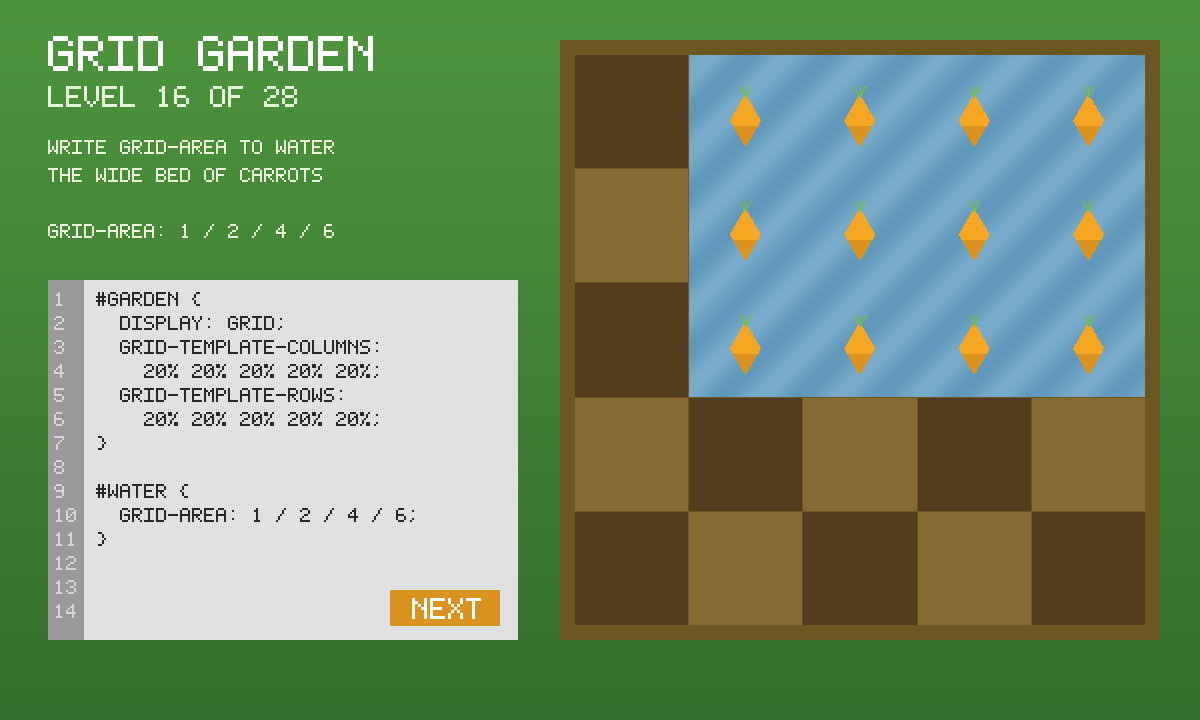
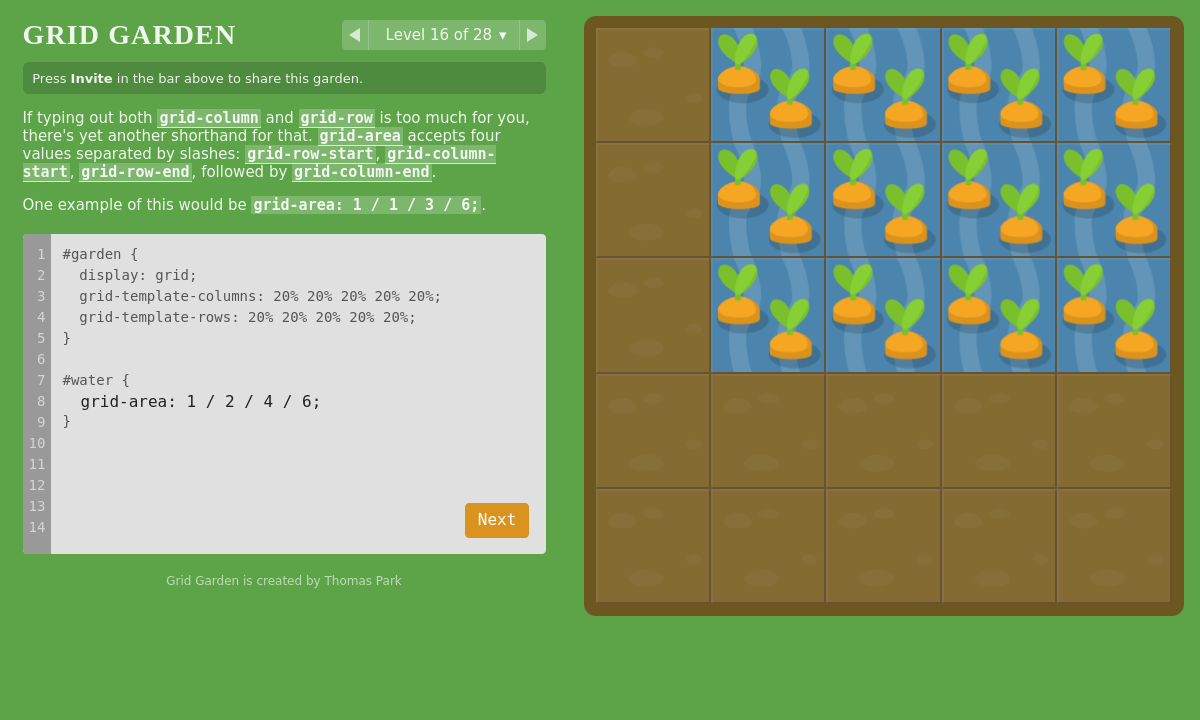
grid-garden: tile carrot sheets to one cell
Spanned beds were stretching the whole sprite. Sheets now repeat at
cell size so level 16 is a field of carrots, like cssgridgarden.com.
Cover is a real window at that level. Critic picked COMP. Re-signed
gifos.app, 412 KB.

diff --git a/apps/grid-garden/style.css b/apps/grid-garden/style.css
@@ -262,6 +262,7 @@ button:not(.disabled):hover { background-color: #C97B00; }
   overflow: hidden;
   border: 12px solid #6D5720;
   border-radius: 12px;
+  container-type: size;
 }
 #garden, #plants, #soil, #overlay {
   display: grid;
@@ -277,7 +278,8 @@ button:not(.disabled):hover { background-color: #C97B00; }
   width: 100%; height: 100%;
   background-color: #836B32;
   background-image: url('vendor/images/dirt.svg');
-  background-size: 100% 100%;
+  background-size: var(--cell, 20cqw) var(--cell, 20cqw);
+  background-repeat: repeat;
 }
 #overlay .plot {
   z-index: 50;
@@ -293,7 +295,9 @@ button:not(.disabled):hover { background-color: #C97B00; }
 .plant .bg, .treatment .bg {
   width: 100%; height: 100%;
   background-position: left top;
-  background-size: 100% 100%;
+  /* One board cell, repeating — a spanned bed is a FIELD of carrots, not one stretched sheet. */
+  background-size: var(--cell, 20cqw) var(--cell, 20cqw);
+  background-repeat: repeat;
 }
 .plant.carrot .bg { background-image: url('vendor/images/carrots.svg'); }
 .plant.weed .bg { background-image: url('vendor/images/weeds.svg'); }
@@ -360,7 +364,7 @@ button:not(.disabled):hover { background-color: #C97B00; }
 
 @keyframes scroll {
   0% { background-position: 0 0; }
-  100% { background-position: 0 100%; }
+  100% { background-position: 0 var(--cell, 20cqw); }
 }
 @keyframes tada {
   from { transform: scale3d(1, 1, 1); }

diff --git a/apps/grid-garden/GAUNTLET-CRITIC.md b/apps/grid-garden/GAUNTLET-CRITIC.md
@@ -1,0 +1,28 @@
+# Grid Garden — gauntlet critic
+
+Blind A/B against https://cssgridgarden.com (Thomas Park). Played the original in Chromium and this port from `apps/grid-garden/` (local server, gifos.db mocked). One browser. Desktop 1280 and phone 390 / 360.
+
+**winner:** COMP
+
+**single biggest remaining gap:** The garden sprites do not tile. Original CSS sizes the carrot / weed / water / dirt sheets to one cell (`background-size: calc(10vw - 4px)` on `.plot`, `.plant .bg`, `.treatment .bg`) so a spanned bed is a *field* of carrots. This port sets `background-size: 100% 100%`, so the whole 2000×2000 sheet stretches across the treatment. Level 1 (one cell) looks like Grid Garden. Level 16 (`grid-area: 1 / 2 / 4 / 6`) is two giant carrots over a stretched puddle instead of twelve pairs in a watered bed. Level 28 is the same failure at harvest scale. The puzzle still greets Next — the geometry check is fine — but the picture that *is* the game is wrong from the first span, which is most of the 28 levels.
+
+**would a stranger who knows the original use this copy:** "I would use the GifOS one on a plane, or to sit a friend on the same plot from one link — the original is a tab and a localStorage key, this is the file. I will not, while watering a row turns into two huge carrots. That is not Grid Garden. Fix the bed so it looks like cssgridgarden.com and then the offline + invite reason is enough; until then I stay on the original."
+
+**HARD WALL:** none. No CDN / webfont / remote fetch at load (zero requests off the app origin). No `localStorage`. `COPYING.txt` (MIT) and `COPYING-images.txt` (CC BY 3.0) ride in the tree and the GIF. Catalog claims that were checked are true: 28 English levels, unofficial, Thomas Park, offline, Invite shares level+CSS, harvest copy is still Froggy's cake. English-only is a product gap versus the original's ~40 languages, not a lie; the listing just does not say it.
+
+## Face (always judged)
+
+- **Icon (64px):** A 5×5 dirt checkerboard, one cell filling with water. The loop demonstrates the mechanic, it does not wiggle. At real Home Screen size the carrot is a speck — it reads "tiny garden," not "Grid Garden." Original has no animated icon, so this is a small structural win that does not yet earn the slot.
+- **Store art:** `screenshot.png` / `cover.jpg` is a pixel mockup of level 16 (diamond carrots, 5×5 checker, fake editor). It matches neither the original's real OG screenshot (Thomas Park's carrots, Autour One, the actual editor) nor this port's running window (which, at 16, is the stretched-carrot bug). Beside the catalog's best covers (2048, Flexbox Froggy) it looks like a different, cheaper game. Crop is full-bleed, no shell toolbar. Hero on `/store.html#app=grid-garden` and the phone listing both show this fake. A shopper who knows cssgridgarden.com would not recognise the product.
+- **Listing copy (read on the rendered store page):** Tagline *Write CSS grid, grow carrots — offline, and one invite shares the garden.* Description leads with file-is-the-save and Invite, then the 28 levels, then unofficial. That is the right shape, and every claim is true of the build. It is better store copy than the original's one-liner ("A game for learning CSS grid layout"). Not enough to win the A/B while the cover and the garden disagree with it.
+
+## Product notes (not the gap, but they sit on the table)
+
+- 28 levels, English instructions, property underlines, Next-when-match, shake on a wrong Next, level dots, Reset — the lesson sequence is the original's.
+- Phone stack (garden on top, no `min-width: 600px`) is strictly better than the original, which still clamps the board at 300px. Ours filled ~359px on a 390-wide viewport and did not spill sideways.
+- Solo chrome always shows "Press Invite in the bar above…" — extra noise the original does not have, and it steals a row on a phone.
+- Title is Georgia, not Autour One; editor is system mono, not Source Code Pro. Acceptable without webfonts; the garden tiling is what actually breaks the look.
+- Invite / gifos.db persist are in the code (`net.js` plot+players, `boot.js` private `save`). Not two-tabbed here (one Chromium). Geometry of the shared plot was not the failure.
+- Win copy still shills Flexbox Froggy and Codepip with no in-app links.
+
+The run is not done. Tile the sheets to a cell, then retake the cover from the real window at level 16. Until a stranger looks at that bed and says "that's Grid Garden," bar two does not matter.

diff --git a/apps/grid-garden/GAUNTLET.md b/apps/grid-garden/GAUNTLET.md
@@ -1,6 +1,8 @@
 # Grid Garden — gauntlet
 
-**Win:** A stranger who knows cssgridgarden.com uses this copy because the file is the save (close it on a plane, same bed) and one invite puts a friend on the same plot with the same CSS — the original needs the site and localStorage.
+Critic (blind A/B vs cssgridgarden.com) picked **COMP**: spanned beds stretched the whole carrot sheet (`background-size: 100% 100%`) instead of tiling one cell, so level 16 was two giant carrots over a puddle. The bed now tiles at `--cell` (board/5, `20cqw` fallback) with `background-repeat: repeat`, matching the original field of carrots. Cover retaken from the real window at level 16.
+
+**Win:** A stranger who knows cssgridgarden.com uses this copy because the file is the save (close it on a plane, same bed) and one invite puts a friend on the same plot with the same CSS — the original needs the site and a tab left open.
 
 ## Bars
 
@@ -12,8 +14,9 @@
 1. Vendor English levels + original art; drop jQuery, webfonts, analytics, ads, hash-language. Phone stack. **Gap closed:** it runs in the sandbox.
 2. Persist level/answers/solved in a private collection. **Gap closed:** close and reopen, same bed.
 3. Shared plot on Invite. **Gap closed:** two tabs, same CSS, same level.
-4. Icon waters a carrot on a 5×5 bed (the first lesson). Cover is mid-level 16: a wide watered carrot and the editor showing `grid-area` (glyph set completed so LEVEL / WATER / NEXT read). Listing leads with offline + invite.
+4. Icon waters a carrot on a 5×5 bed (the first lesson). Listing leads with offline + invite.
+5. Tiled the carrot/weed/water/dirt sheets to one cell (`--cell` = board/5). Cover is a real 1200×720 window at level 16 — a 4×3 field of carrot pairs under water, not two giants.
 
 ## Remaining gap
 
-Translations from the original (~40 languages) are not shipped — English only, to keep the GIF small. The original's other-games ads are gone on purpose.
+Translations from the original (~40 languages) are not shipped — English only, to keep the GIF small. The original's other-games ads are gone on purpose. The icon carrot is still a speck at 64px.
